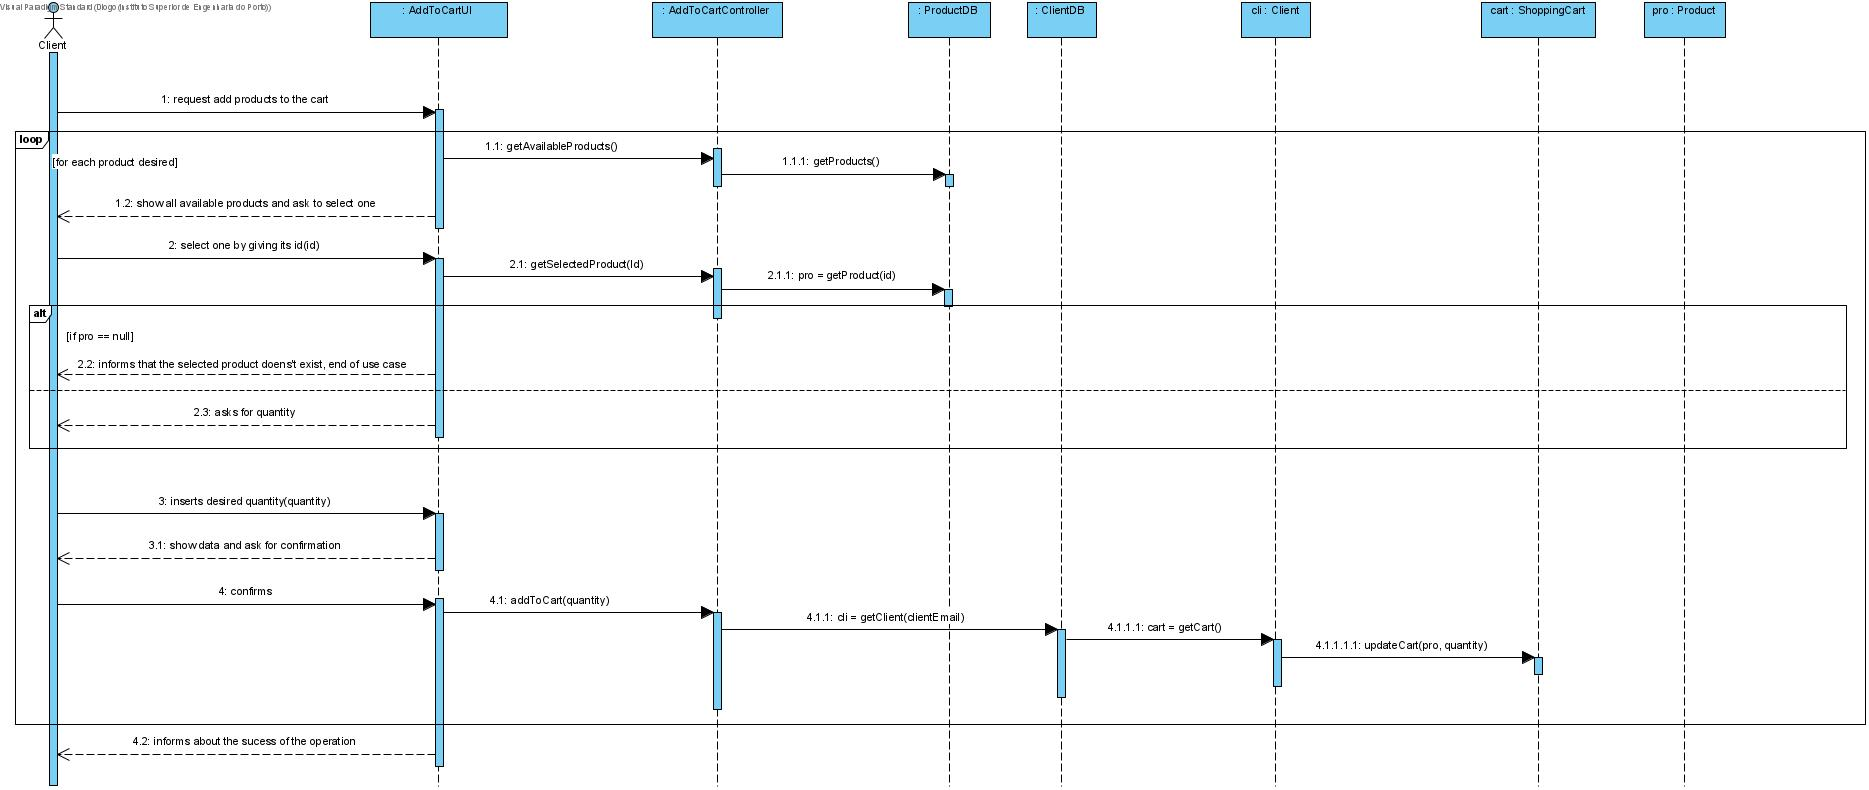
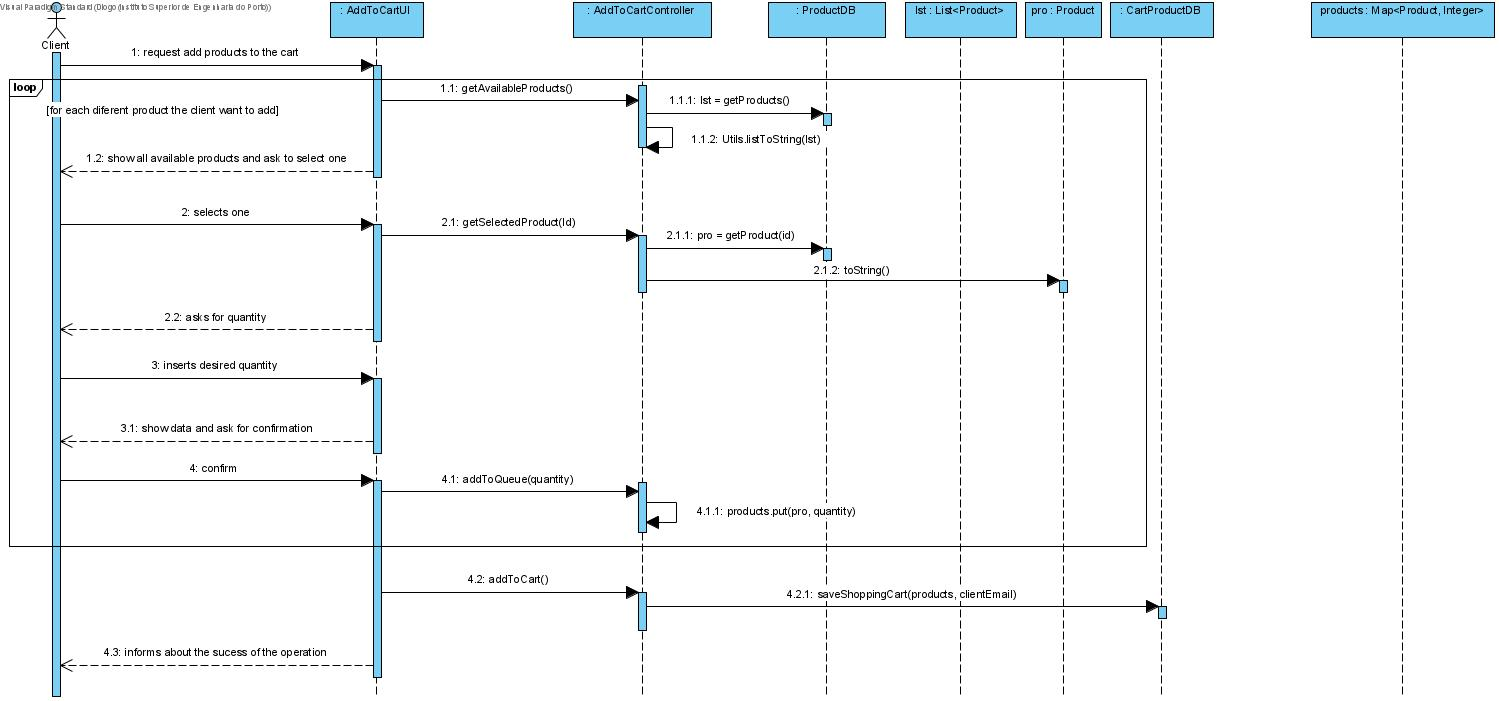
MEN09-236 #close Maintenance [Fix bugs]

diff --git a/src/test/java/lapr/project/controller/AddToCartControllerTest.java b/src/test/java/lapr/project/controller/AddToCartControllerTest.java
@@ -12,6 +12,7 @@ import lapr.project.data.CartProductDB;
 import lapr.project.data.ClientDB;
 import lapr.project.data.ProductDB;
 import lapr.project.model.Product;
+import lapr.project.utils.Utils;
 import org.junit.jupiter.api.AfterEach;
 import org.junit.jupiter.api.AfterAll;
 import org.junit.jupiter.api.BeforeEach;
@@ -23,56 +24,54 @@ import static org.mockito.Mockito.when;
 
 /**
  *
- * @author Helder
+ * @author Diogo
  */
 public class AddToCartControllerTest {
     
-    private static AddToCartController atcc;
-    private static String clientEmail;
-    private static ProductDB pdb;
-    private static ClientDB cdb;
-    private static CartProductDB cpdb;
-    private static Product p;
+    private static AddToCartController controller;
+    private static String email = "client1@lapr3.com";
+    private static List<Product> products;
+    private static Product p1;
     private static Product p2;
-    private static List<Product> prds = new ArrayList<>();
+    private static Product p3;
     
-    public AddToCartControllerTest() {
-    }
     
     @BeforeAll
     public static void setUpClass() {
+        p1 = new Product(1, "Product 1", 0.56, 23);
+        p2 = new Product(2, "Product 2", 4, 3.99);
+        p3 = new Product(3, "Product 3", 1.2, 9.5);
+        products = new ArrayList<>();
+        products.add(p1);
+        products.add(p2);
+        products.add(p3);
+        
+        
+
     }
-    
-    @AfterAll
-    public static void tearDownClass() {
-    }
+
     
     @BeforeEach
     public void setUp() throws SQLException {
-        pdb=mock(ProductDB.class);
-        cdb = mock(ClientDB.class);
-        cpdb = mock(CartProductDB.class);
-        atcc=new AddToCartController(clientEmail,pdb,cdb,cpdb);
-        p=new Product(1,"brufen",5.0,5.0);
-        p2=new Product(2,"benerun",5.0,5.0);
-        prds.add(p);
-        prds.add(p2);
-        when(pdb.getProducts()).thenReturn(prds);
-        when(pdb.getProduct(1)).thenReturn(p);
+        ProductDB pdb = mock(ProductDB.class);
+        ClientDB cdb = mock(ClientDB.class);
+        CartProductDB cpdb = mock(CartProductDB.class);
+        
+        when(pdb.getProducts()).thenReturn(products);
+        when(pdb.getProduct(1)).thenReturn(p1);
         when(pdb.getProduct(2)).thenReturn(p2);
+        when(pdb.getProduct(3)).thenReturn(p3);
+        controller = new AddToCartController(email, pdb, cdb, cpdb);
     }
     
-    @AfterEach
-    public void tearDown() {
-    }
+
 
     /**
      * Test of getAvailableProducts method, of class AddToCartController.
      */
     @Test
     public void testGetAvailableProducts() throws Exception {
-        assertEquals(true, pdb.getProducts().contains(p));
-        assertEquals(true, pdb.getProducts().contains(p2));
+        assertEquals(Utils.listToString(products), controller.getAvailableProducts());
     }
 
     /**
@@ -80,11 +79,22 @@ public class AddToCartControllerTest {
      */
     @Test
     public void testGetSelectedProduct() throws Exception {
-        assertEquals(p.toString(), atcc.getSelectedProduct(1));
-        assertEquals(p2.toString(), atcc.getSelectedProduct(2));
-        assertEquals(null, atcc.getSelectedProduct(5));
+        assertEquals(p1.toString(), controller.getSelectedProduct(1));
+        assertEquals(p2.toString(), controller.getSelectedProduct(2));
+        assertEquals(p3.toString(), controller.getSelectedProduct(3));
+        assertEquals(null, controller.getSelectedProduct(4));
     }
 
-    
+   
+
+    /**
+     * Test of addToCart method, of class AddToCartController.
+     */
+    @Test
+    public void testAddToCart() throws Exception {
+        controller.getSelectedProduct(1);
+        controller.addToQueue(4);
+        controller.addToCart();
+    }
     
 }

diff --git a/src/main/java/lapr/project/controller/AddToCartController.java b/src/main/java/lapr/project/controller/AddToCartController.java
@@ -14,6 +14,7 @@ import lapr.project.data.CartProductDB;
 import lapr.project.data.ClientDB;
 import lapr.project.data.ProductDB;
 import lapr.project.model.Product;
+import lapr.project.utils.Utils;
 
 /**
  *
@@ -26,6 +27,7 @@ public class AddToCartController {
     private final CartProductDB cpdb;
     private Product pro;
     private final Map<Product, Integer> products;
+    
 
     public AddToCartController(String clientEmail, ProductDB pdb, ClientDB cdb, CartProductDB cpdb) {
         this.clientEmail = clientEmail;
@@ -37,14 +39,8 @@ public class AddToCartController {
 
     
     public List<String> getAvailableProducts() throws SQLException{
-        List<String> lst = new ArrayList<>();
-        for(Product p : pdb.getProducts()){
-            lst.add(p.toString());
-        }
-        if (lst.isEmpty()){
-            return new ArrayList<>();
-        }else{
-        return lst;}
+        List<String> lst = Utils.listToString(pdb.getProducts());
+        return lst;
     }
     
     public String getSelectedProduct(int id) throws SQLException{
@@ -53,7 +49,9 @@ public class AddToCartController {
     }
     
     public void addToQueue(int quantity){
+        if(pro != null){
         products.put(pro, quantity);
+        }
     }
     
     public void addToCart() throws SQLException{

diff --git a/src/main/java/lapr/project/data/CartProductDB.java b/src/main/java/lapr/project/data/CartProductDB.java
@@ -36,22 +36,8 @@ public class CartProductDB extends DataHandler{
                 callStmt.setInt(3, products.get(p));
                 
                 callStmt.execute();
-                callStmt.addBatch();
+               
             }
-
-            con.setAutoCommit(false);
-
-            try {
-                callStmt.executeBatch();
-                con.commit();
-            } catch (BatchUpdateException e) {
-                con.rollback();
-                throw new SQLException(e.getNextException());
-            } finally {
-                con.setAutoCommit(true);
-            }
-
-            
         }
 
     }

diff --git a/src/main/java/lapr/project/ui/Main.java b/src/main/java/lapr/project/ui/Main.java
@@ -35,7 +35,7 @@ class Main {
      */
     public static void main(String[] args) throws IOException, SQLException {
 
-        //AddToCartUI addToCart = new AddToCartUI("clien1@lapr3.com"); // ADICIONA O DOBRO DA QUANTIDADE INSERIDA
+        //AddToCartUI addToCart = new AddToCartUI("clien1@lapr3.com"); // FUNCIONA
         //MakeOrderUI makeOrder = new MakeOrderUI("clien1@lapr3.com"); // FUNCIONA
         //StartDeliveryRunUI startDelivery = new StartDeliveryRunUI(1, 67.5, "courier1@lapr3.com"); // FUNCIONA
 
